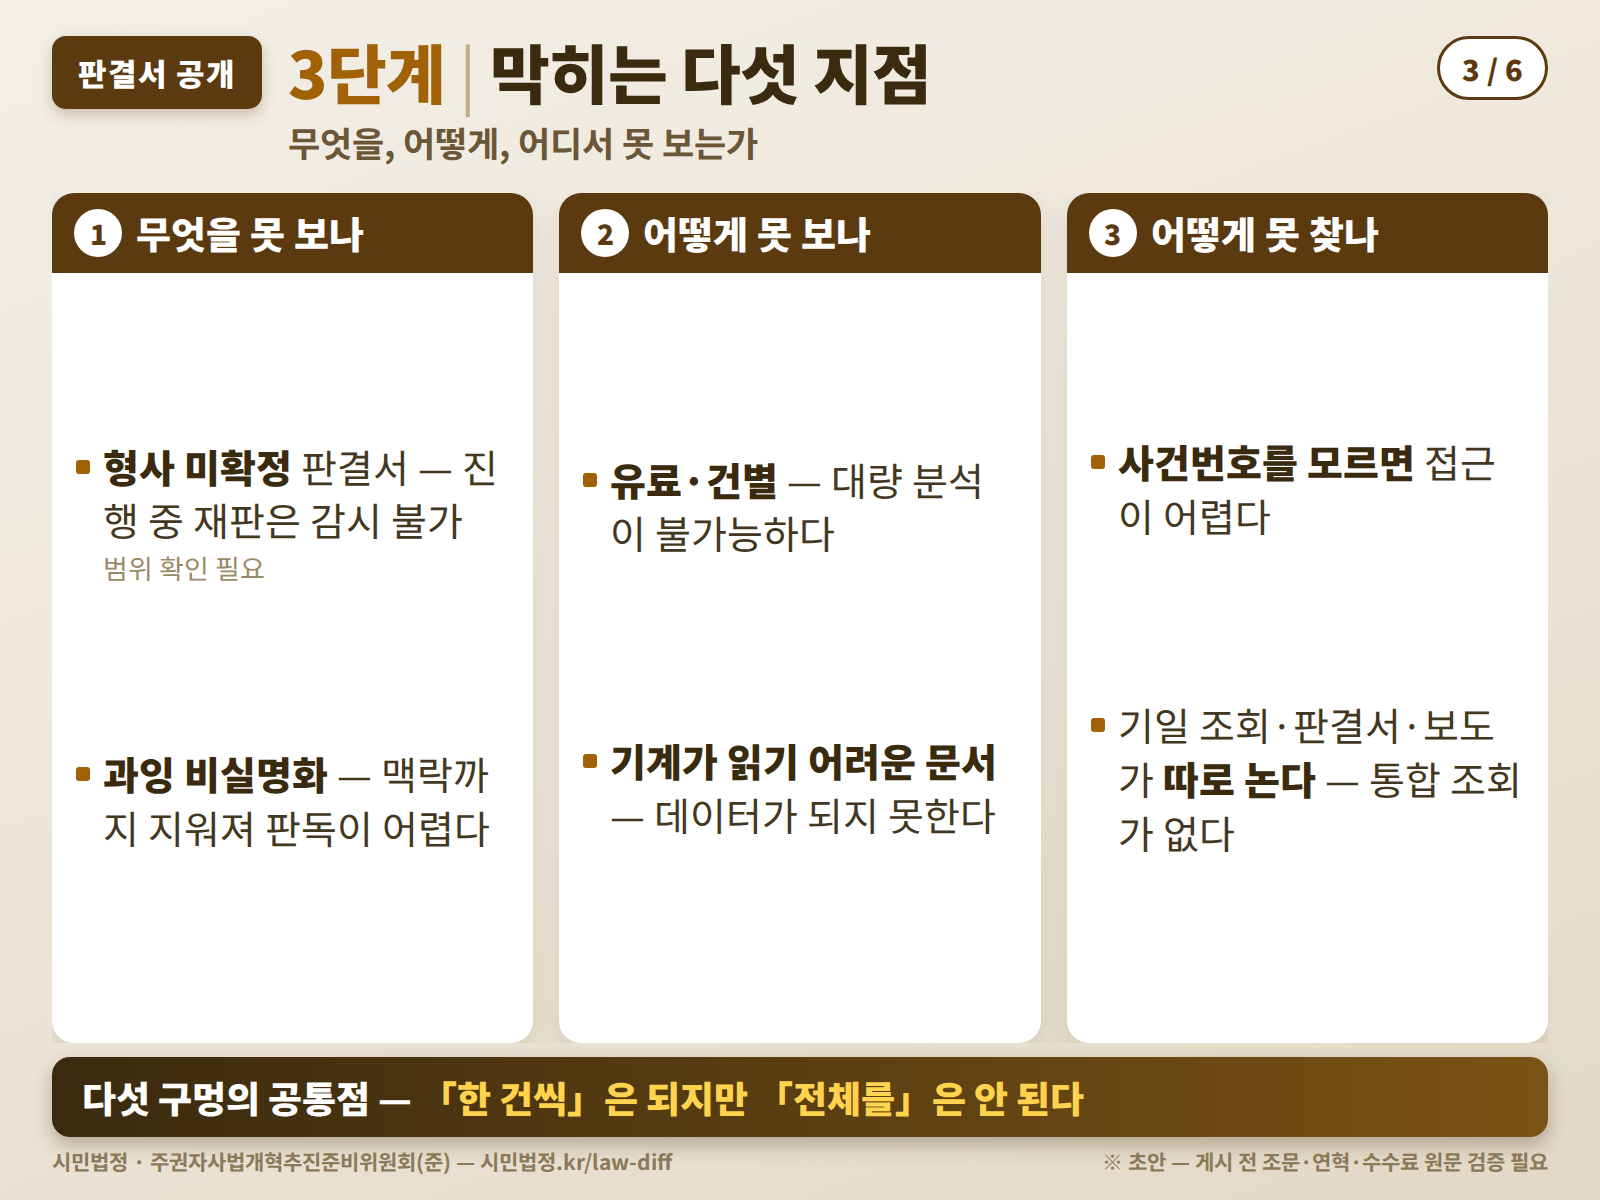
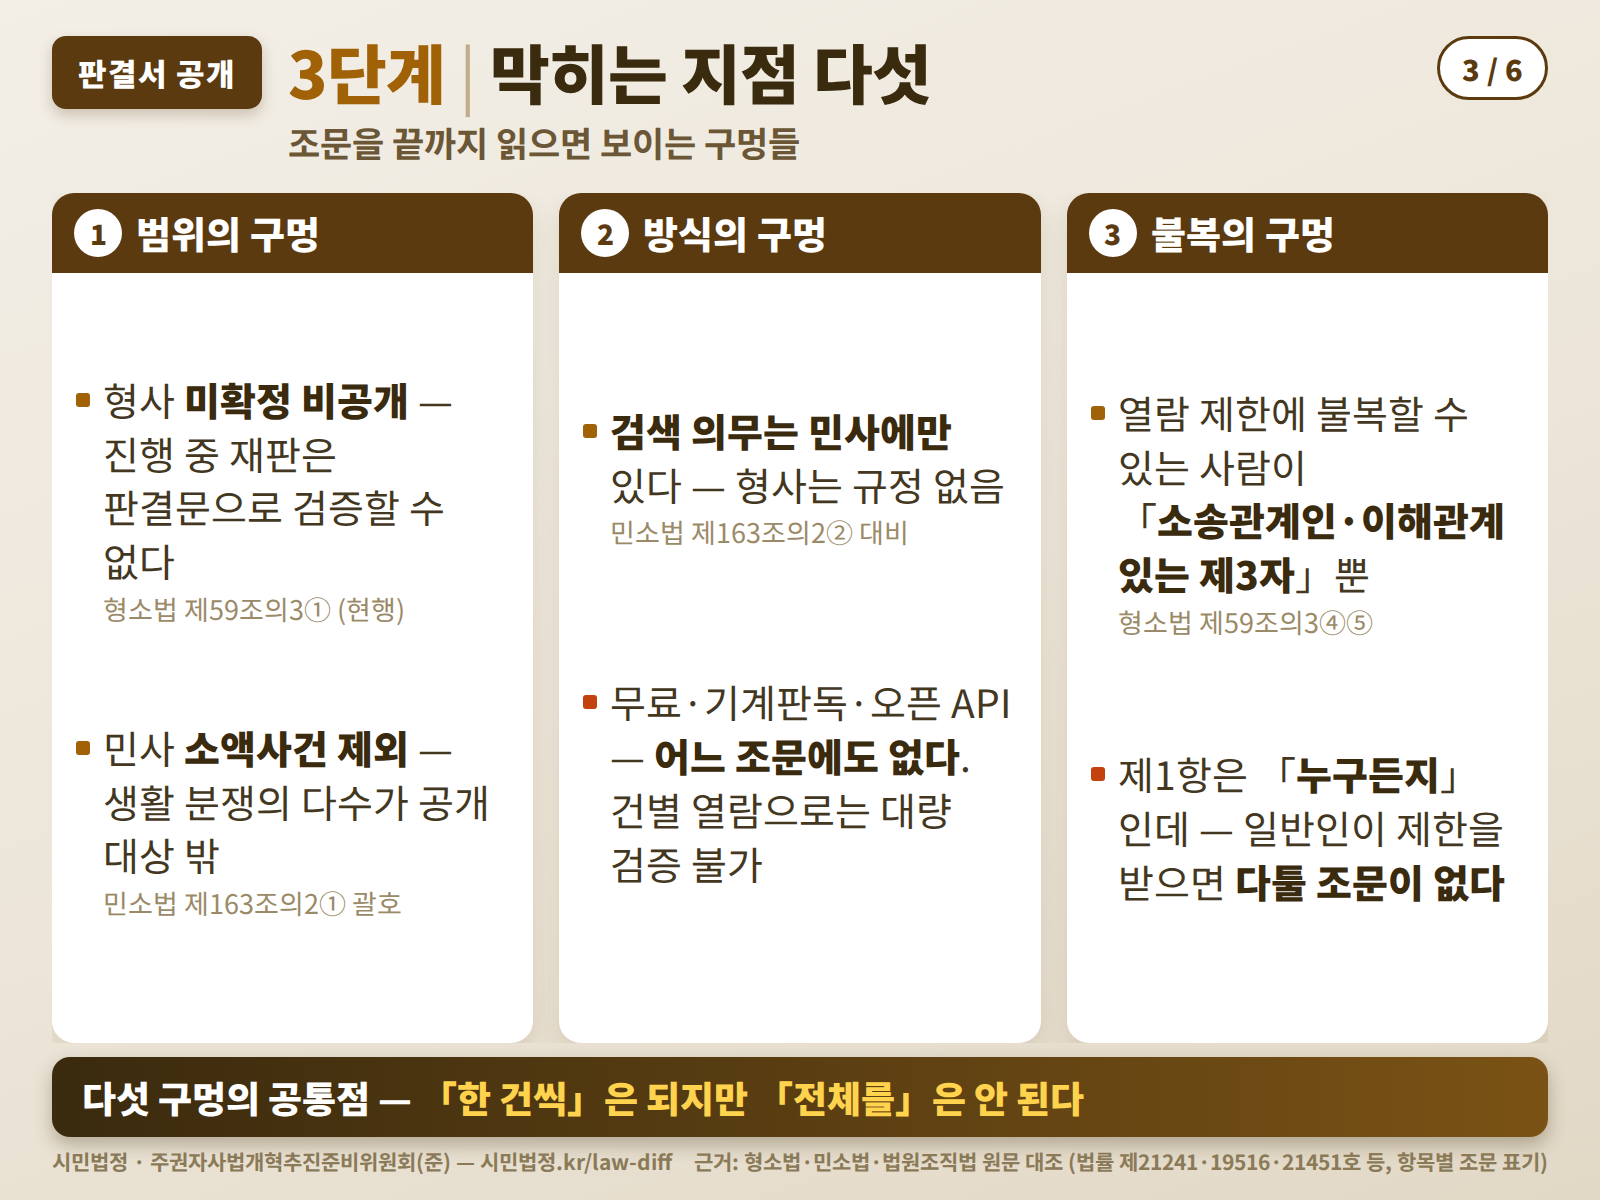
판결서 공개: 원문 검증 반영 — verdict 부분 성립, 카드뉴스 확정판
- lawIssues.js judgment-disclosure: 검증 대기 → 부분 성립. 형소법 제59조의3
  (확정 한정·제한 5호·검색 의무 없음·불복은 소송관계인 한정), 민소법
  제163조의2(선고 기준·검색 의무·소액 제외), 법원조직법 제57조(판결은
  비공개 예외 없음), 연혁 부칙 3건, 법률 제21241호 미확정 공개
  (2027-12-31 시행·2000-08-01 소급) 전부 원문 대조. 제안을 6개로 재구성
- 카드뉴스 6장 확정판: 초안 표기 제거, 2단계 형사/민사 대비·4단계
  「이미 바뀌고 있다」 신설, word-break: keep-all 적용
- 남은 과제(note): 2027-12-31 시행분 문언·대법원규칙·수수료·raisedBy·통계

Claude-Session: https://claude.ai/code/session_01Tk6fdTFNaJGYTTow9hPdhd

diff --git a/src/data/lawIssues.js b/src/data/lawIssues.js
@@ -506,10 +506,11 @@ ISSUES.push({
     title: '판결서 공개 — 재판은 공개인데 판결문은 왜 닫혀 있는가',
     category: '알권리',
     relatedArticles: [
-        '헌법 제109조 (재판 공개 원칙)',
-        '형사소송법 제59조의3 (판결서 열람·복사 — ⚠ 원문 미수집)',
-        '민사소송법 제163조의2 (판결서 인터넷 열람 — ⚠ 원문 미수집)',
-        '법원조직법 제57조 (심리 공개 — ⚠ 원문 미수집)',
+        '헌법 제109조 (재판 공개 원칙 — 문언은 법원조직법 제57조제1항과 동일)',
+        '법원조직법(법률 제21451호) 제57조 (재판의 공개)',
+        '형사소송법(법률 제21241호 중 2026-07-01 시행분) 제59조의3 (확정 판결서등의 열람ㆍ복사)',
+        '형사소송법 개정법률(법률 제21241호) 부칙 제1조·제2조 (미확정 공개 — 2027-12-31 시행, 2000-08-01 소급)',
+        '민사소송법(법률 제19516호) 제163조의2 (판결서의 열람ㆍ복사)',
     ],
 
     concern: {
@@ -522,35 +523,45 @@ ISSUES.push({
     },
 
     factCheck: {
-        verdict: '검증 대기',
+        verdict: '부분 성립',
         reasoning:
-            '**이 쟁점의 조문은 아직 저장소에 없다.** 다른 쟁점과 달리 원문 대조를 거치지 않았으므로, 아래 서술은 제도의 골격에 대한 일반적 이해이고 세부(연혁·수수료·범위)는 전부 원문 확인이 필요하다.\n\n' +
-            '확인이 필요한 골격은 이렇다.\n' +
-            '① **헌법 제109조**가 재판의 심리와 판결의 공개를 원칙으로 선언한다.\n' +
-            '② 판결서 열람은 **형사소송법 제59조의3**(형사)과 **민사소송법 제163조의2**(민사)가 정하는 것으로 알려져 있다 — 인터넷 열람 제도가 형사는 2013년, 민사는 2015년 이후 확정 사건부터 적용됐고, 민사 쪽은 2023년부터 미확정 판결서도 열람 대상이 됐다고 알려져 있으나 **연혁·조문 문언 모두 미확인**이다.\n' +
-            '③ 열람은 건당 수수료를 내고 비실명화된 문서를 한 건씩 보는 방식이며, **형사 미확정 판결서는 열람 대상이 아닌 것**으로 알려져 있다 — 역시 미확인.\n\n' +
-            '검증 방법: 국가법령정보센터에서 헌법·형소법 제59조의3·민소법 제163조의2·법원조직법 제57조 원문을 수집해 docs/bills/ 에 넣고, 대법원 판결서 인터넷 열람 안내(수수료·대상 범위)를 1차 자료로 확보한다. 공개율 통계를 인용하려면 원출처(법원행정처 자료 또는 국정감사 자료)를 특정해야 한다.',
+            '**조문 원문 대조를 마쳤다**(2026-09-01, 형소법·민소법·법원조직법 원문 수집분 — docs/bills/). 확인된 구조는 이렇다.\n\n' +
+            '**① 공개 원칙은 판결에서 예외가 없다.** **법원조직법(법률 제21451호) 제57조제1항**은 「재판의 심리와 판결은 공개한다」고 하면서, 단서의 비공개는 **심리에만** 허용한다 — 판결 자체는 비공개로 할 길이 조문에 없다. 헌법 제109조와 같은 문언이다.\n\n' +
+            '**② 그런데 열람 제도에서 형사와 민사가 갈린다 — 민사가 형사보다 넓다.**\n' +
+            '형사(**형사소송법 제59조의3**)는 조문 제목부터 「**확정** 판결서등의 열람ㆍ복사」다. 제1항이 「판결이 확정된 사건」으로 한정하고, 제한 사유 5개 호(비공개 심리·소년사건·증거인멸 우려·국가안전보장 등)를 둔다. **검색 제공 의무는 없다.**\n' +
+            '민사(**민사소송법 제163조의2**)는 「판결이 **선고된** 사건」 — 확정되지 않은 판결서를 명문으로 포함한다(제1항 괄호). 나아가 **제2항이 「판결서에 기재된 문자열 또는 숫자열이 검색어로 기능할 수 있도록 제공되어야 한다」는 검색 의무**까지 둔다(2020-12-08 신설). 다만 **소액사건과 심리불속행 상고 판결서는 제외**된다 — 생활 분쟁의 큰 부분이 여기서 빠진다.\n\n' +
+            '**③ 연혁도 부칙에서 확인된다.** 형사는 법률 제10864호 부칙 제1조제2항(2013-01-01 시행, 확정 사건부터), 민사는 법률 제10859호 부칙(2015-01-01 시행, 확정 판결서부터) → **법률 제17568호 부칙(2023-01-01 시행, 「선고되는」 판결서부터 — 미확정 포함)**.\n\n' +
+            '**④ 형사 쪽도 이미 바뀌고 있다 — 이것이 이번 확인의 가장 중요한 발견이다.** **법률 제21241호(2025-12-30 공포)**가 제59조의3을 개정해 **확정되지 아니한 형사 판결서도 열람ㆍ복사할 수 있게** 한다(법제처 제·개정이유: 「국민의 알 권리 및 사법정보 접근권을 실질적으로 보장」). 시행은 **부칙 제1조에 따라 공포 후 2년(2027-12-31)**이고, **부칙 제2조가 2000-08-01 이후 선고 사건까지 소급 적용**한다(2013-12-31까지 선고분은 판결서·등본 한정, 세부는 대법원규칙 위임). 단 **개정 후 조문 문언(2027-12-31 시행분)은 아직 수집하지 못했다.**\n\n' +
+            '**⑤ 2026-10-02 수사·기소 분리 개정은 제59조의3을 건드리지 않는다** — 두 시행분을 diff로 대조해 동일함을 확인했다.\n\n' +
+            '**⑥ 불복 절차는 반쪽이다.** 형소법 제59조의3제4항·제5항은 열람ㆍ복사 처분에 대한 불복(취소·변경 신청, 제417조·제418조 준용)을 두지만, 그 주체가 「정당한 사유가 있는 **소송관계인이나 이해관계 있는 제3자**」다. 제1항의 「누구든지」로 열람하려는 일반인이 제한을 받았을 때의 불복은 조문에 없다.\n\n' +
+            '따라서 우려는 **부분 성립**이다 — 「데이터로 검증할 수 없다」(무료·기계판독·API·통합 조회 부재)는 그대로 성립하지만, 「닫혀 있다」고만 쓰면 틀린다. 민사는 검색 의무까지 있고, 형사 미확정 공개도 이미 입법돼 시행을 기다리고 있다. **수수료 등 실무 세부는 조문이 아니라 대법원규칙 위임 사항**(형소법 제59조의3제6항·민소법 제163조의2제6항)이라 별도 확인이 필요하다.',
         basis: [
-            { type: '조문', tier: null, ref: '헌법 제109조 — ⚠ 원문 미수집 (수집 후 [헌법] 접두로 교체할 것)', file: '', url: '', billNo: '', billRole: '' },
-            { type: '조문', tier: null, ref: '형사소송법 제59조의3 — ⚠ 원문 미수집', file: '', url: '', billNo: '', billRole: '' },
-            { type: '조문', tier: null, ref: '민사소송법 제163조의2 — ⚠ 원문 미수집', file: '', url: '', billNo: '', billRole: '' },
+            { type: '조문', tier: null, ref: '[법률 제21451호] 법원조직법 제57조 (재판의 공개 — 단서는 심리만)', file: 'docs/bills/법원조직법_원문.txt', url: '', billNo: '', billRole: '' },
+            { type: '조문', tier: null, ref: '[법률 제21241호 중 2026-07-01 시행분] 형사소송법 제59조의3 (확정 판결서등의 열람ㆍ복사)', file: 'docs/bills/형사소송법_현행.txt', url: '', billNo: '', billRole: '' },
+            { type: '조문', tier: null, ref: '[법률 제21241호] 형사소송법 부칙 제1조·제2조 (미확정 공개 2027-12-31 시행 · 2000-08-01 소급) 및 법제처 제·개정이유', file: 'docs/bills/형사소송법_현행.txt', url: '', billNo: '', billRole: '' },
+            { type: '조문', tier: null, ref: '[법률 제10864호] 형사소송법 부칙 제1조제2항 (제59조의3 — 2013-01-01 시행)', file: 'docs/bills/형사소송법_현행.txt', url: '', billNo: '', billRole: '' },
+            { type: '조문', tier: null, ref: '[법률 제19516호] 민사소송법 제163조의2 (판결서의 열람ㆍ복사 — 미확정 포함·검색 의무·소액 제외)', file: 'docs/bills/민사소송법_원문.txt', url: '', billNo: '', billRole: '' },
+            { type: '조문', tier: null, ref: '[법률 제10859호·제17568호] 민사소송법 부칙 (2015-01-01 확정 → 2023-01-01 선고 기준)', file: 'docs/bills/민사소송법_원문.txt', url: '', billNo: '', billRole: '' },
+            { type: '조문', tier: null, ref: '[법률 제21857호] 형사소송법 2026-10-02 시행분 — 제59조의3 변경 없음 (diff 대조)', file: 'docs/bills/형사소송법_20261002시행.txt', url: '', billNo: '', billRole: '' },
         ],
     },
 
     ourProposal: {
-        text: '**판결서 전면 공개를 「신청하면 열어 주는」 제도에서 「기본은 열려 있는」 제도로 바꾼다.** 다섯 가지다.\n\n' +
-            '**① 원칙의 전환** — 비공개 사유(성폭력 피해자·미성년자 보호 등)를 법률에 한정 열거하고, 그 밖에는 공개를 기본값으로 한다. 비공개 결정 자체를 다툴 수 있게 한다.\n\n' +
-            '**② 전 심급·미확정 포함** — 1심부터 공개해야 항소심 감시가 된다. 형사 미확정은 무죄추정과의 긴장이 있으므로 「비실명 즉시 공개 + 확정 후 실명 전환」 같은 단계 설계를 둔다.\n\n' +
-            '**③ 데이터로서의 판결문** — 무료, 기계판독 형식, 오픈 API. 건별 PDF 열람으로는 양형 경향 같은 구조적 검증이 불가능하다.\n\n' +
+        text: '**「신청하면 열어 주는」 제도에서 「기본이 열려 있는」 제도로 — 남은 것을 완성한다.** 조문 확인 결과 우리 제안의 일부는 이미 입법돼 있으므로, 제안은 남은 구멍에 맞춘다.\n\n' +
+            '**① 형사 미확정 공개의 시행을 앞당기고, 검색 의무를 형사에도 둔다** — 법률 제21241호가 미확정 공개를 이미 정했으나 시행이 2027-12-31이다. 그리고 민소법 제163조의2제2항의 검색어 제공 의무에 해당하는 조항이 형소법에는 없다.\n\n' +
+            '**② 소액사건·심리불속행 판결서도 공개 대상에 넣는다** — 민소법 제163조의2제1항 괄호가 제외한 부분이 생활 분쟁의 다수다.\n\n' +
+            '**③ 데이터로서의 판결문** — 무료, 기계판독 형식, 오픈 API. 건별 열람으로는 양형 경향 같은 구조적 검증이 불가능하다. 수수료 등은 대법원규칙 위임 사항이므로 규칙 개정으로도 움직일 수 있다.\n\n' +
             '**④ 비실명화의 표준화** — 자동 비실명화 기준을 공개하고, 판사·검사 등 공적 수행자의 실명은 비실명화 대상에서 제외함을 명문화한다.\n\n' +
-            '**⑤ 사건번호 연계** — 기일(나의 사건검색)·판결서·공보가 사건번호 하나로 이어지는 통합 조회를 만든다.',
-        rationale: '판결서 공개는 별도 쟁점이 아니라 **우리 제안 전체의 기반 시설**이다. 시민기소심사위원회·법률감찰단·시민옴부즈만은 전부 「밖의 눈」인데, 밖의 눈을 만들어도 볼 것이 닫혀 있으면 작동하지 않는다. 그리고 공개는 가장 값싼 예방 장치다 — 보이는 곳에서는 행동이 달라진다.',
+            '**⑤ 일반인에게도 제한 불복을 연다** — 형소법 제59조의3제4항의 불복은 소송관계인·이해관계 있는 제3자만 쓸 수 있다. 제1항의 「누구든지」와 짝이 맞으려면 불복도 누구든지여야 한다.\n\n' +
+            '**⑥ 사건번호 연계** — 기일(나의 사건검색)·판결서·공보가 사건번호 하나로 이어지는 통합 조회를 만든다.',
+        rationale: '판결서 공개는 별도 쟁점이 아니라 **우리 제안 전체의 기반 시설**이다. 시민기소심사위원회·법률감찰단·시민옴부즈만은 전부 「밖의 눈」인데, 밖의 눈을 만들어도 볼 것이 닫혀 있으면 작동하지 않는다. 그리고 공개는 가장 값싼 예방 장치다 — 보이는 곳에서는 행동이 달라진다.\n\n입법이 이미 방향을 잡았다는 사실(법률 제21241호)은 이 제안의 실현 가능성을 보여 준다 — 남은 것은 속도(시행일)와 형식(데이터인가 문서인가)이다.',
         isPolicyJudgment: true,
     },
 
     otherProposals: [],
     status: 'draft',
-    note: '2026-09-01 신설. **verdict 는 「검증 대기」** — 이 파일에서 유일하게 조문 원문 대조를 거치지 않은 쟁점이다. 데스크탑 세션 과제: ① 헌법·형소법 제59조의3·민소법 제163조의2·법원조직법 제57조 원문 수집(docs/bills/) ② 대법원 판결서 인터넷 열람 제도 안내(수수료·대상·연혁) 1차 자료 확보 ③ 판결문 공개 확대를 요구해 온 대표 출처(학계·참여연대·국회 발의안 등) 수집해 raisedBy 채우기 ④ 공개율 통계의 원출처 특정. 검증 완료 전에는 이 쟁점을 사이트에 노출하지 않는다(전 쟁점 draft 이므로 현재는 자동 충족).',
+    note: '2026-09-01 신설, 같은 날 데스크탑 세션이 형소법·민소법·법원조직법 원문을 수집해 **조문 검증 완료**(verdict 검증 대기 → 부분 성립). 원문 대조 요약은 docs/bills/README.md 「판결서 공개」 절에 있다 — 특히 「형사=확정 / 민사=선고」 대비를 뒤집어 쓰지 말 것(작업 중 실제로 한 번 뒤집은 일이 있다).\n\n' +
+        '남은 과제: ① **법률 제21241호의 2027-12-31 시행분 조문 문언**(개정 후 제59조의3) 수집 — 미확정 공개의 구체 설계(비실명·제한 사유)를 확인해야 한다 ② 대법원규칙(판결서 열람ㆍ복사 규칙)과 수수료 실무 확인 ③ 판결문 공개 확대를 요구해 온 대표 출처(학계·참여연대·국회 검토보고서 등)를 수집해 raisedBy 채우기 ④ 공개율 통계의 원출처 특정 ⑤ 법원조직법 2026-10-01 시행분(제21503호) — 제57조와 무관해 보이나 재확인.',
 });
 
 /**
